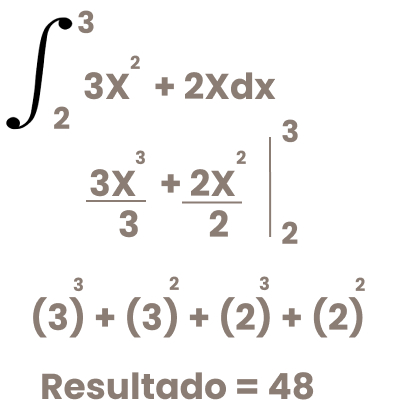
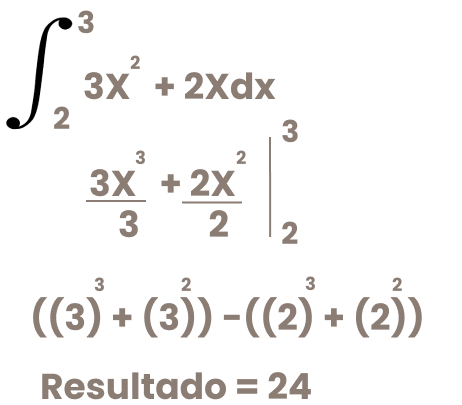
Arreglos en calculos

diff --git a/js/main.js b/js/main.js
@@ -13,7 +13,7 @@ function calculos(){
     let numeroDeSimulaciones = inputNumber.value;
     if(numeroDeSimulaciones > 0){
         // Empezar la simulacion.
-        const resultadoExacto = Math.pow(3,3) + Math.pow(3,2) + Math.pow(2,3) + Math.pow(2,2);
+        const resultadoExacto = (Math.pow(3,3) + Math.pow(3,2)) -(Math.pow(2,3) + Math.pow(2,2));
         let resultadoAprox = 0;
         let variableAcumuladora = 0;
         for(let i = 0; i < numeroDeSimulaciones; i++){
@@ -38,7 +38,7 @@ function crearHTML(rApro, porcError){
         cuerpo = `
             <div class="alert alert-info mt-5 g" role="alert">
                 <p>Resultado aproximado de la integral por el método de Monte Carlo: ${rApro}</p>
-                <p>(%) de error: ${porcError}</p>
+                <p>(%) de error entre valor real y el valor aproximado: ${porcError}</p>
               </div>
         `;
         div.innerHTML = cuerpo;
